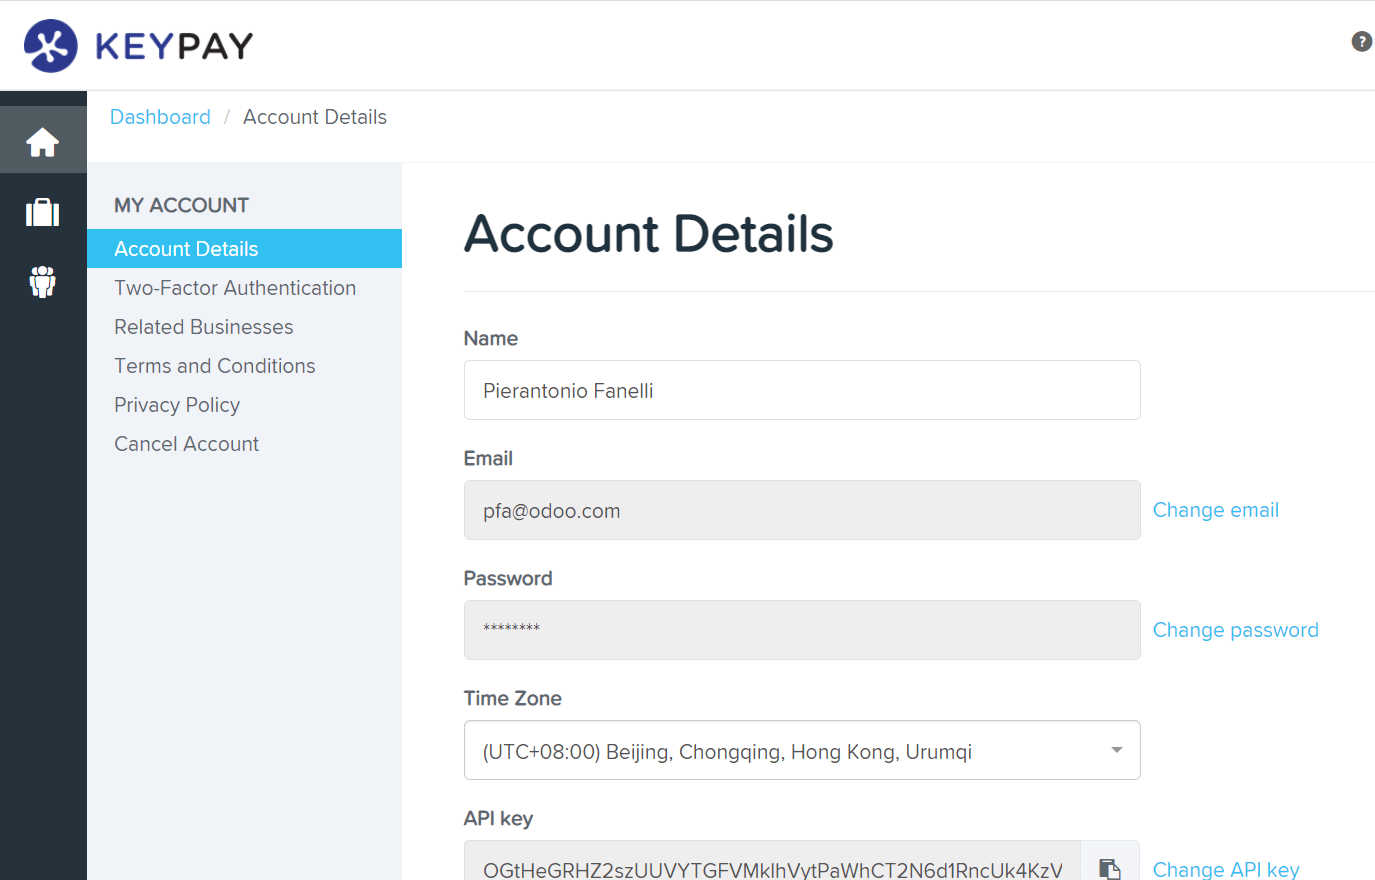
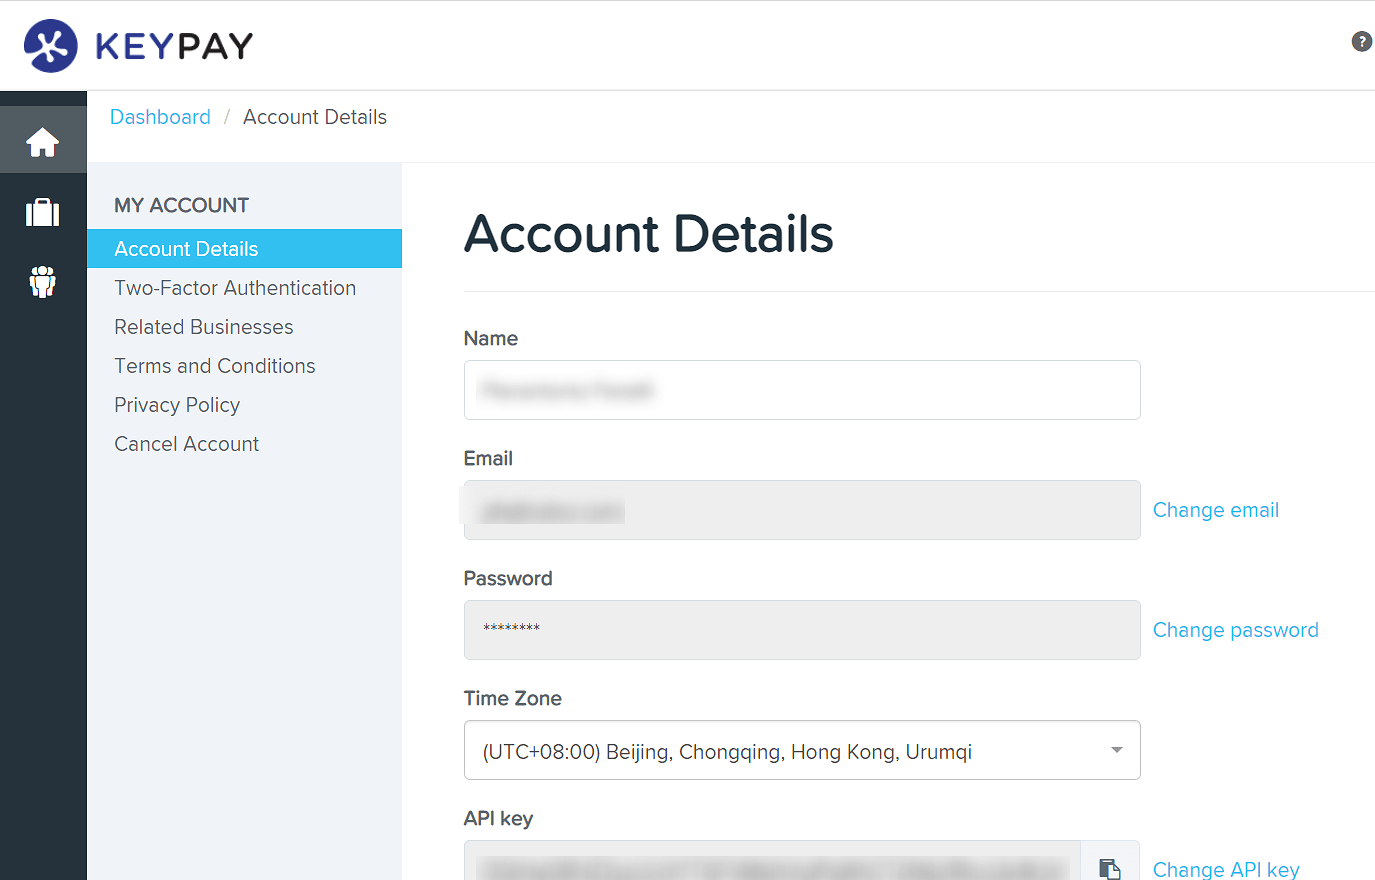
[FIX] accounting/l10n: small content fix in australia loc
- delete a note
- blur some fields in two images

diff --git a/accounting/fiscal_localizations/localizations/australia.rst b/accounting/fiscal_localizations/localizations/australia.rst
@@ -11,9 +11,6 @@ The KeyPay Module synchronizes payslip accounting entries (e.g., expenses, socia
 liabilities, taxes) from KeyPay to Odoo automatically. Payroll administration is still done in
 KeyPay. We only record the journal entries in Odoo.
 
-.. note::
-   The KeyPay Module is installed by default with the Australian localization module.
-
 Configuration Steps
 -------------------
 
